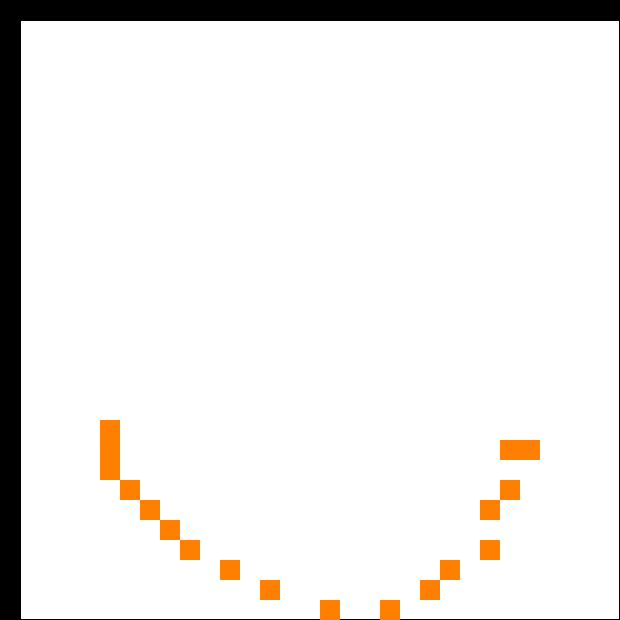
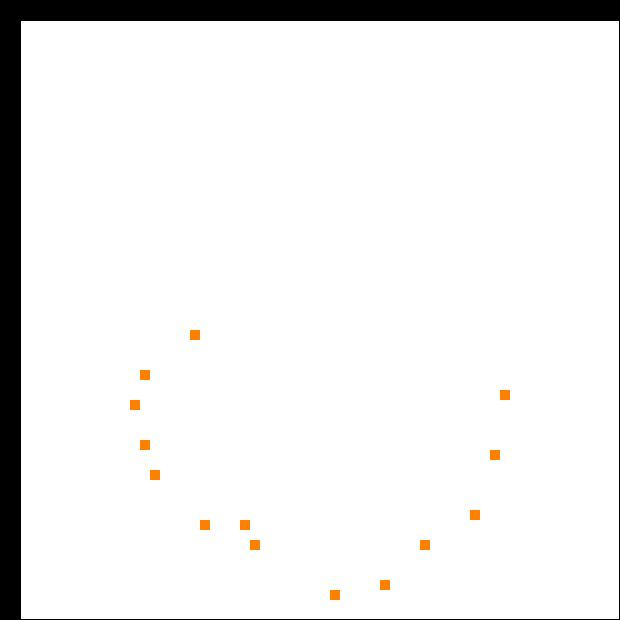
fixelsize fixed
fixelsize in half

diff --git a/dDlg.cpp b/dDlg.cpp
@@ -12,8 +12,8 @@
 #define new DEBUG_NEW
 #endif
 
-#define BLOCKWIDTH 20
-#define BLOCKHEIGHT 20
+#define BLOCKWIDTH 10
+#define BLOCKHEIGHT 10
 #define WIDTH 600
 #define HEIGHT 600
 #define OFFSET CPoint(pos.x,pos.y) //좌표계 중간점
@@ -167,8 +167,8 @@ void CdDlg::OnPaint()
 		//한 칸 길이는 20
 		//가로, 세로 전체 길이는 20*30=600
 		dc=new CPaintDC(this);
-		for (int y = 0; y < 30; y++)
-			for (int x = 0; x < 30; x++)
+		for (int y = 0; y < 60; y++)
+			for (int x = 0; x < 60; x++)
 				dc->Rectangle((1 + x) * BLOCKWIDTH, (1 + y) * BLOCKWIDTH, (BLOCKWIDTH * (x + 2)) + 1, (BLOCKWIDTH * (y + 2)) + 1);
 		/*CDC MemDC;
 		MemDC.CreateCompatibleDC(dc);
@@ -234,8 +234,8 @@ HCURSOR CdDlg::OnQueryDragIcon()
 void CdDlg::OnLButtonDown(UINT nFlags, CPoint point) // 왼쪽 마우스 버튼 콜백함수
 {
 	
-	if (point.x > WIDTH+20 || point.x < 20) return;
-	if (point.y> HEIGHT+20 || point.y <20 ) return;
+	if (point.x > WIDTH+10 || point.x < 10) return;
+	if (point.y> HEIGHT+10 || point.y <0 ) return;
 	CPoint temp = ConvertGlobalCoorToBlockCoor(point);
 	CPoint temp2 = ConvertBlockCoorToGlobalCoor(temp);
 	
@@ -251,7 +251,7 @@ void CdDlg::OnLButtonDown(UINT nFlags, CPoint point) // 왼쪽 마우스 버튼 
 		
 		if (blockData[temp.x-301][temp.y-301] != 1) {
 			createBlock(temp.x-301, temp.y-301, NULL);
-			rdc->Rectangle(temp2.x - 10, temp2.y - 10, temp2.x + 10, temp2.y + 10);
+			rdc->Rectangle(temp2.x - 5, temp2.y - 5, temp2.x + 5, temp2.y + 5);
 		}
 	}
 	else if (PresentState == State::ERASE) {
@@ -327,8 +327,8 @@ void CdDlg::OnBnClickedBtnAlldelete()
 {
 	// TODO: 여기에 컨트롤 알림 처리기 코드를 추가합니다.
 	Invalidate(TRUE);
-	for (int i = 0; i < 30; i++) {
-		for (int j = 0; j < 30; j++) {
+	for (int i = 0; i < 60; i++) {
+		for (int j = 0; j < 60; j++) {
 			blockData[i][j] = 0;
 		}
 	}
@@ -355,8 +355,8 @@ void CdDlg::OnBnClickedBtnsave()
 	
 	temp->Rectangle(20, 20, 620, 620);
 
-	for (int i = 0; i < 30; i++) {
-		for (int j = 0; j < 30; j++) {
+	for (int i = 0; i < 60; i++) {
+		for (int j = 0; j < 60; j++) {
 			if (blockData[i][j] == 1) {
 				CBrush brush;
 				brush.CreateSolidBrush(blockColor[i][j]);
@@ -368,7 +368,7 @@ void CdDlg::OnBnClickedBtnsave()
 				
 
 				CPoint temp2 = ConvertBlockCoorToGlobalCoor(CPoint(i+301,j+301));
-				temp->Rectangle(temp2.x - 10, temp2.y - 10, temp2.x + 10, temp2.y + 10);
+				temp->Rectangle(temp2.x - 5, temp2.y - 5, temp2.x + 5, temp2.y + 5);
 				brush.DeleteObject();
 				pen.DeleteObject();
 			}

diff --git a/dDlg.h b/dDlg.h
@@ -50,8 +50,8 @@ public:
 	CPoint pos;
 	CPoint ConvertGlobalCoorToBlockCoor(CPoint GlobalCoor);
 	CPoint ConvertBlockCoorToGlobalCoor(CPoint BlockCoor);
-	int blockData[30][30] = { 0 }; //각 칸의 블록 데이터
-	COLORREF blockColor[30][30];
+	int blockData[60][60] = { 0 }; //각 칸의 블록 데이터
+	COLORREF blockColor[60][60];
 	State PresentState;
 
 	afx_msg void OnBnClickedBtnDraw();
